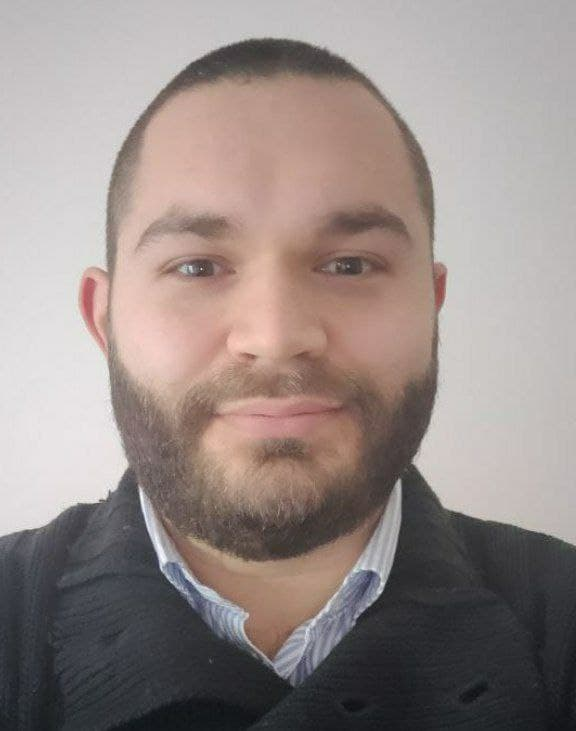
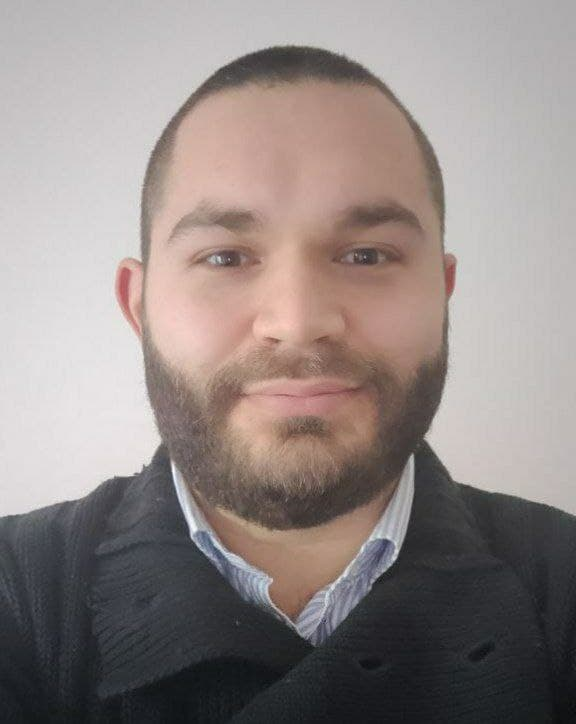
2021.4

Changed region(s): [[0.0, 0.0304, 1.0, 1.0], [0.2188, 0.9116, 0.375, 0.9724]]

diff --git a/index.html b/index.html
@@ -339,7 +339,7 @@ $(document).ready(function () {
  
 </p>
 <center>
-<img src="me2.png" id="id" class="class" style="width:30.0%;height:30.0%" />
+<img src="me3.jpg" id="id" class="class" style="width:30.0%;height:30.0%" />
 <center>
 <p>
  
